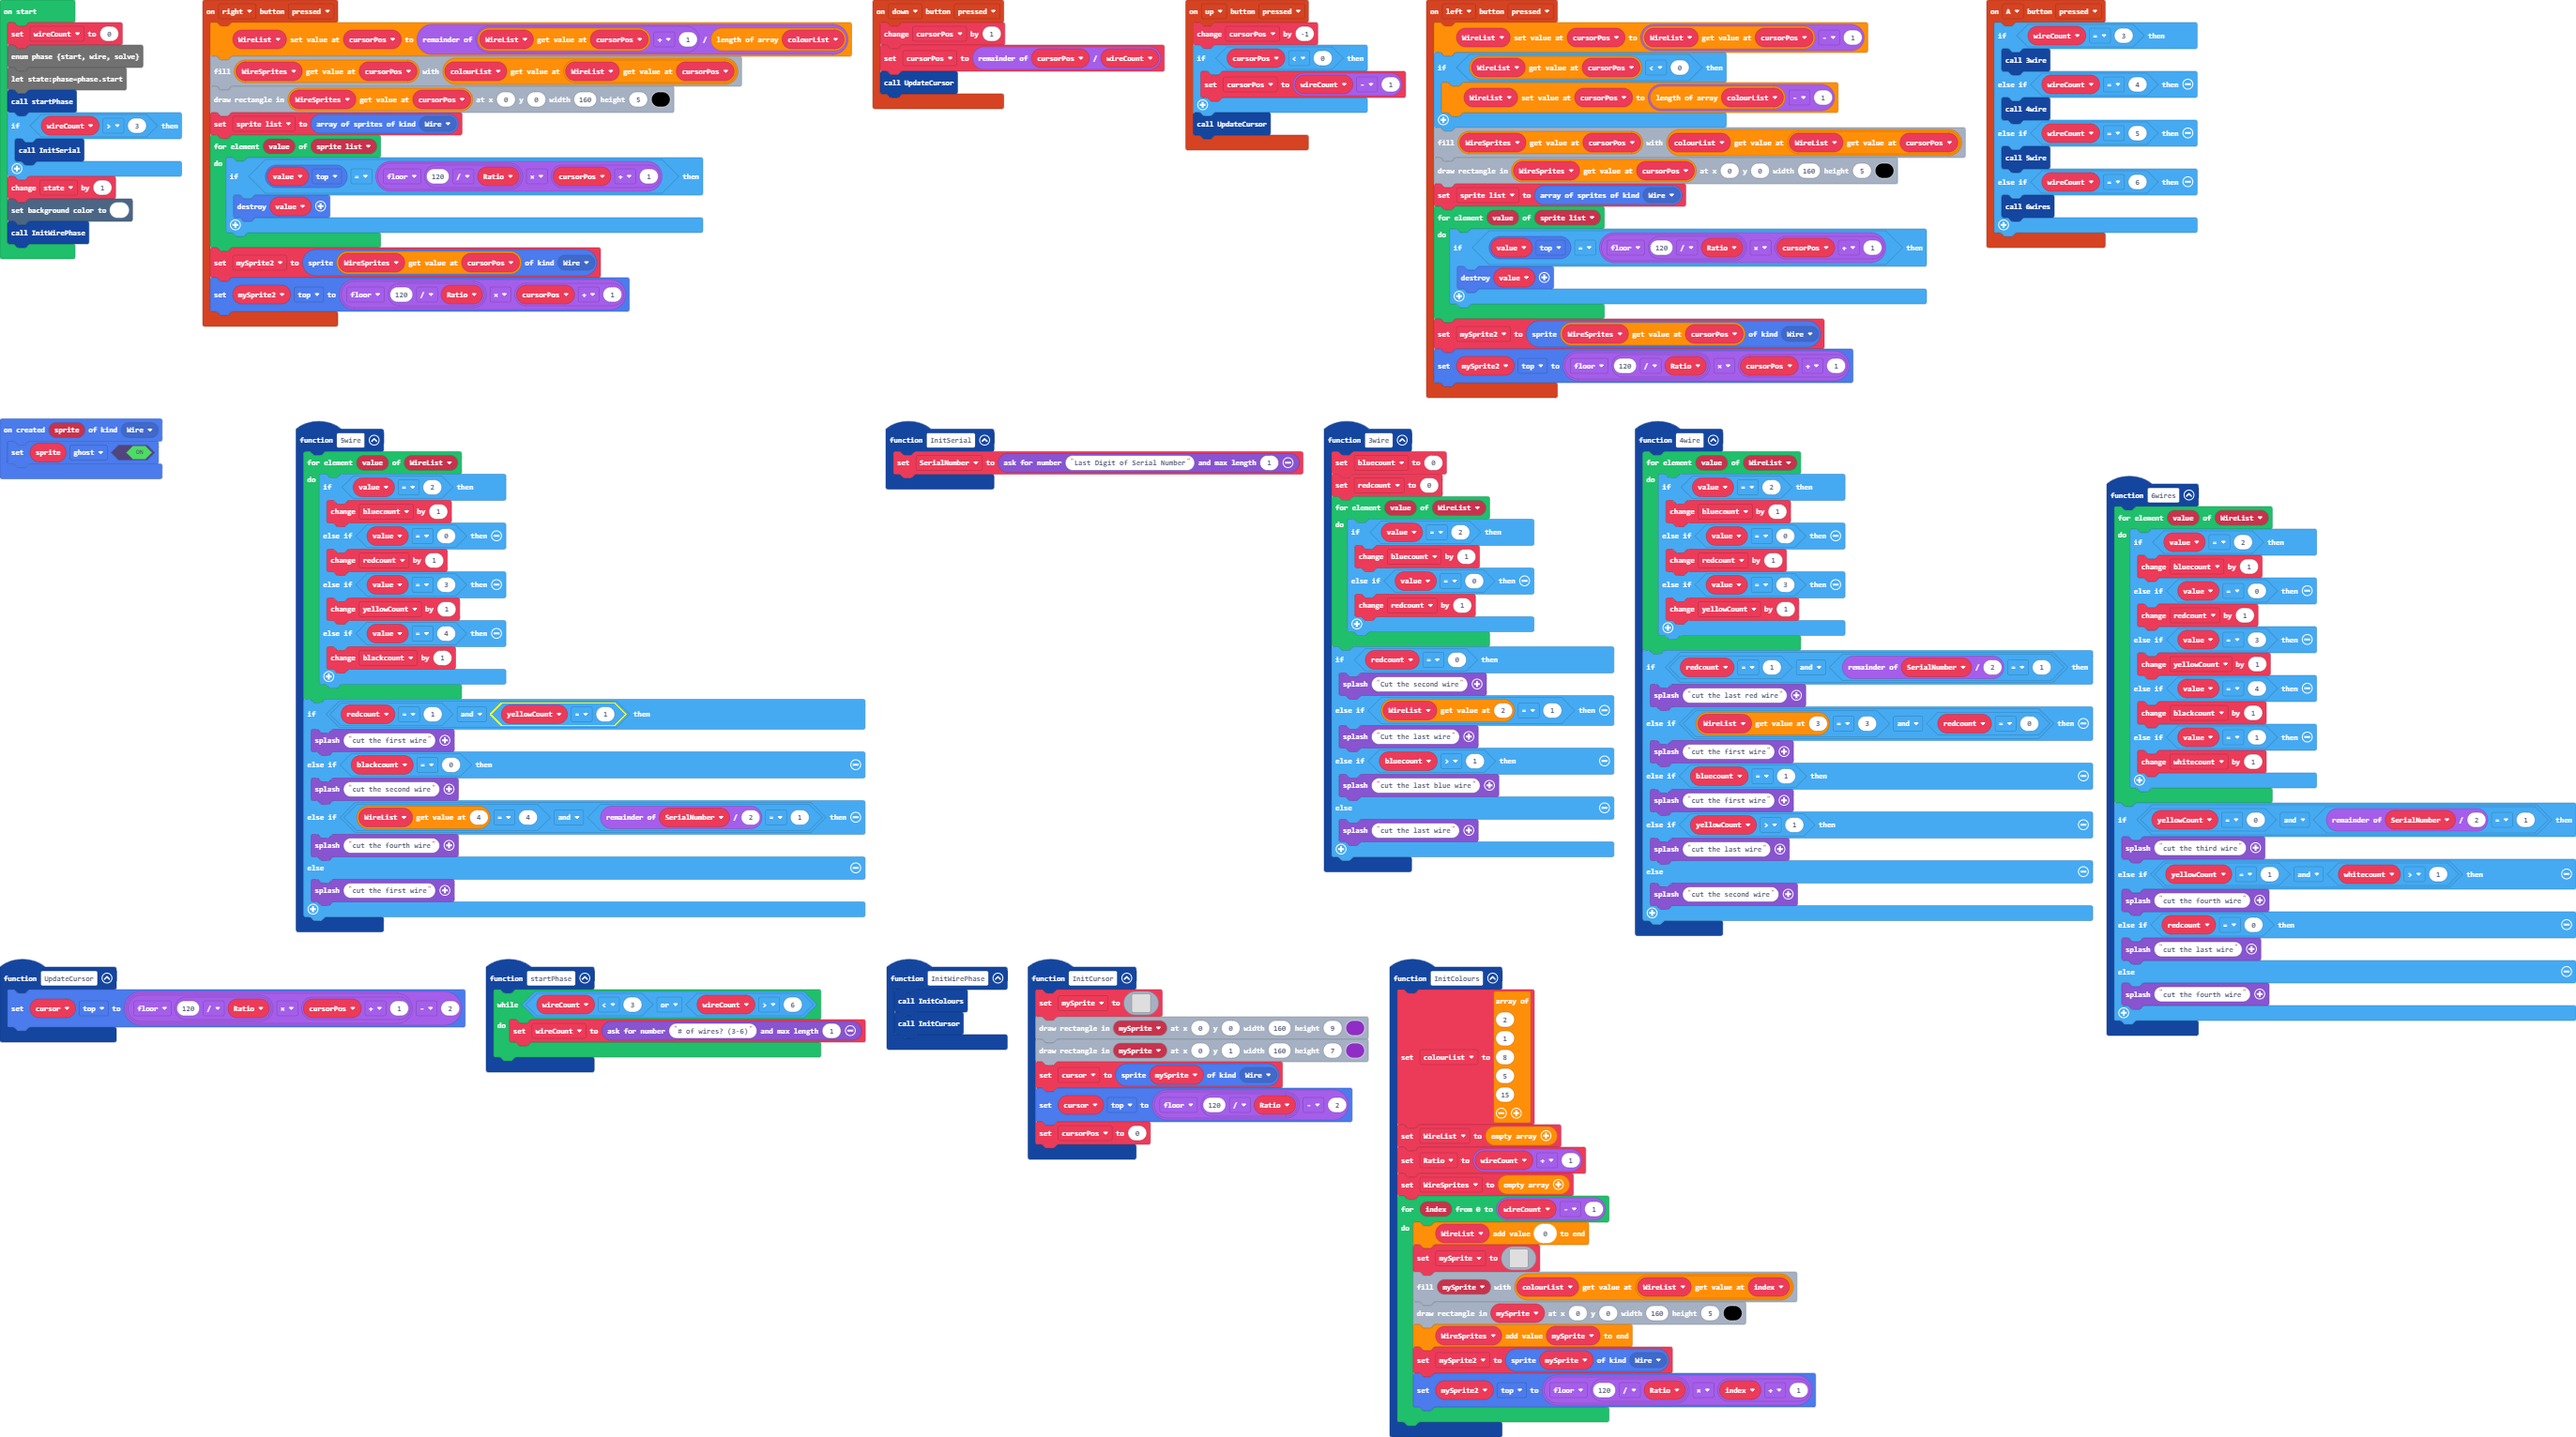
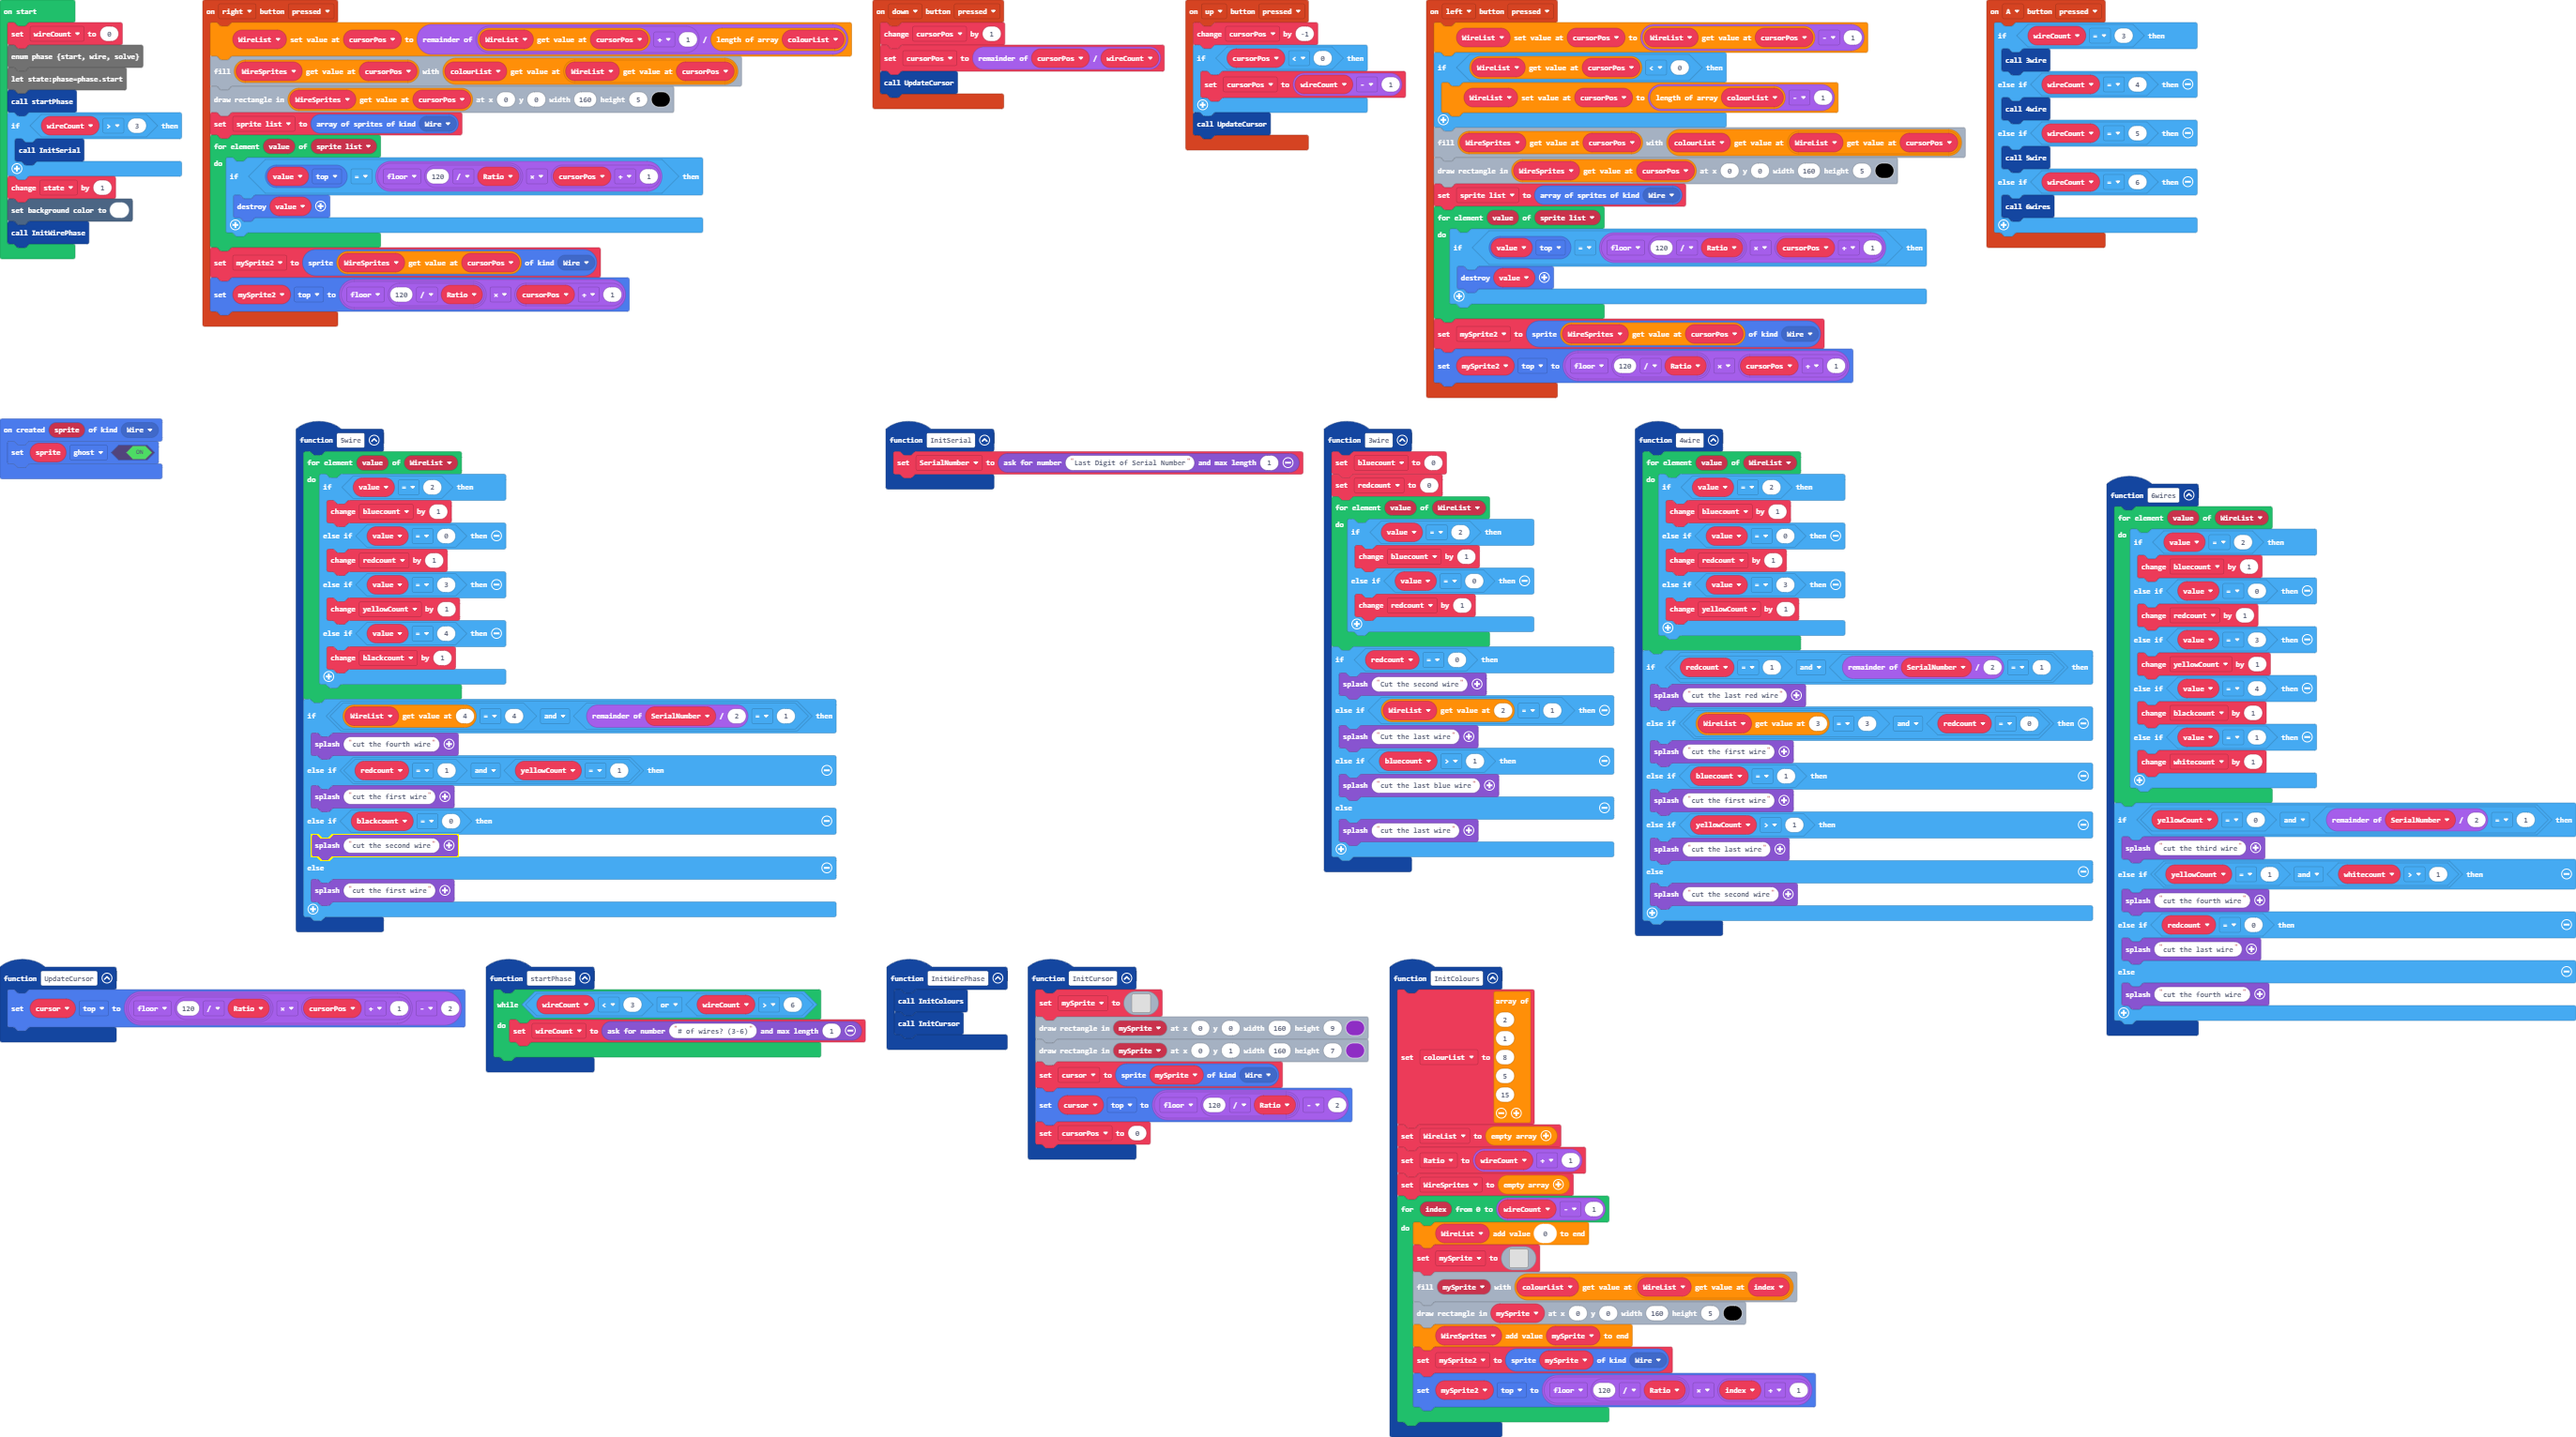
Update main.blocks, main.ts

Changed region(s): [[0.1239, 0.4909, 0.3406, 0.6443]]

diff --git a/main.ts b/main.ts
@@ -23,12 +23,12 @@ function _5wire () {
             blackcount += 1
         }
     }
-    if (redcount == 1 && yellowCount == 1) {
+    if (WireList[4] == 4 && SerialNumber % 2 == 1) {
+        game.splash("cut the fourth wire")
+    } else if (redcount == 1 && yellowCount == 1) {
         game.splash("cut the first wire")
     } else if (blackcount == 0) {
         game.splash("cut the second wire")
-    } else if (WireList[4] == 4 && SerialNumber % 2 == 1) {
-        game.splash("cut the fourth wire")
     } else {
         game.splash("cut the first wire")
     }
